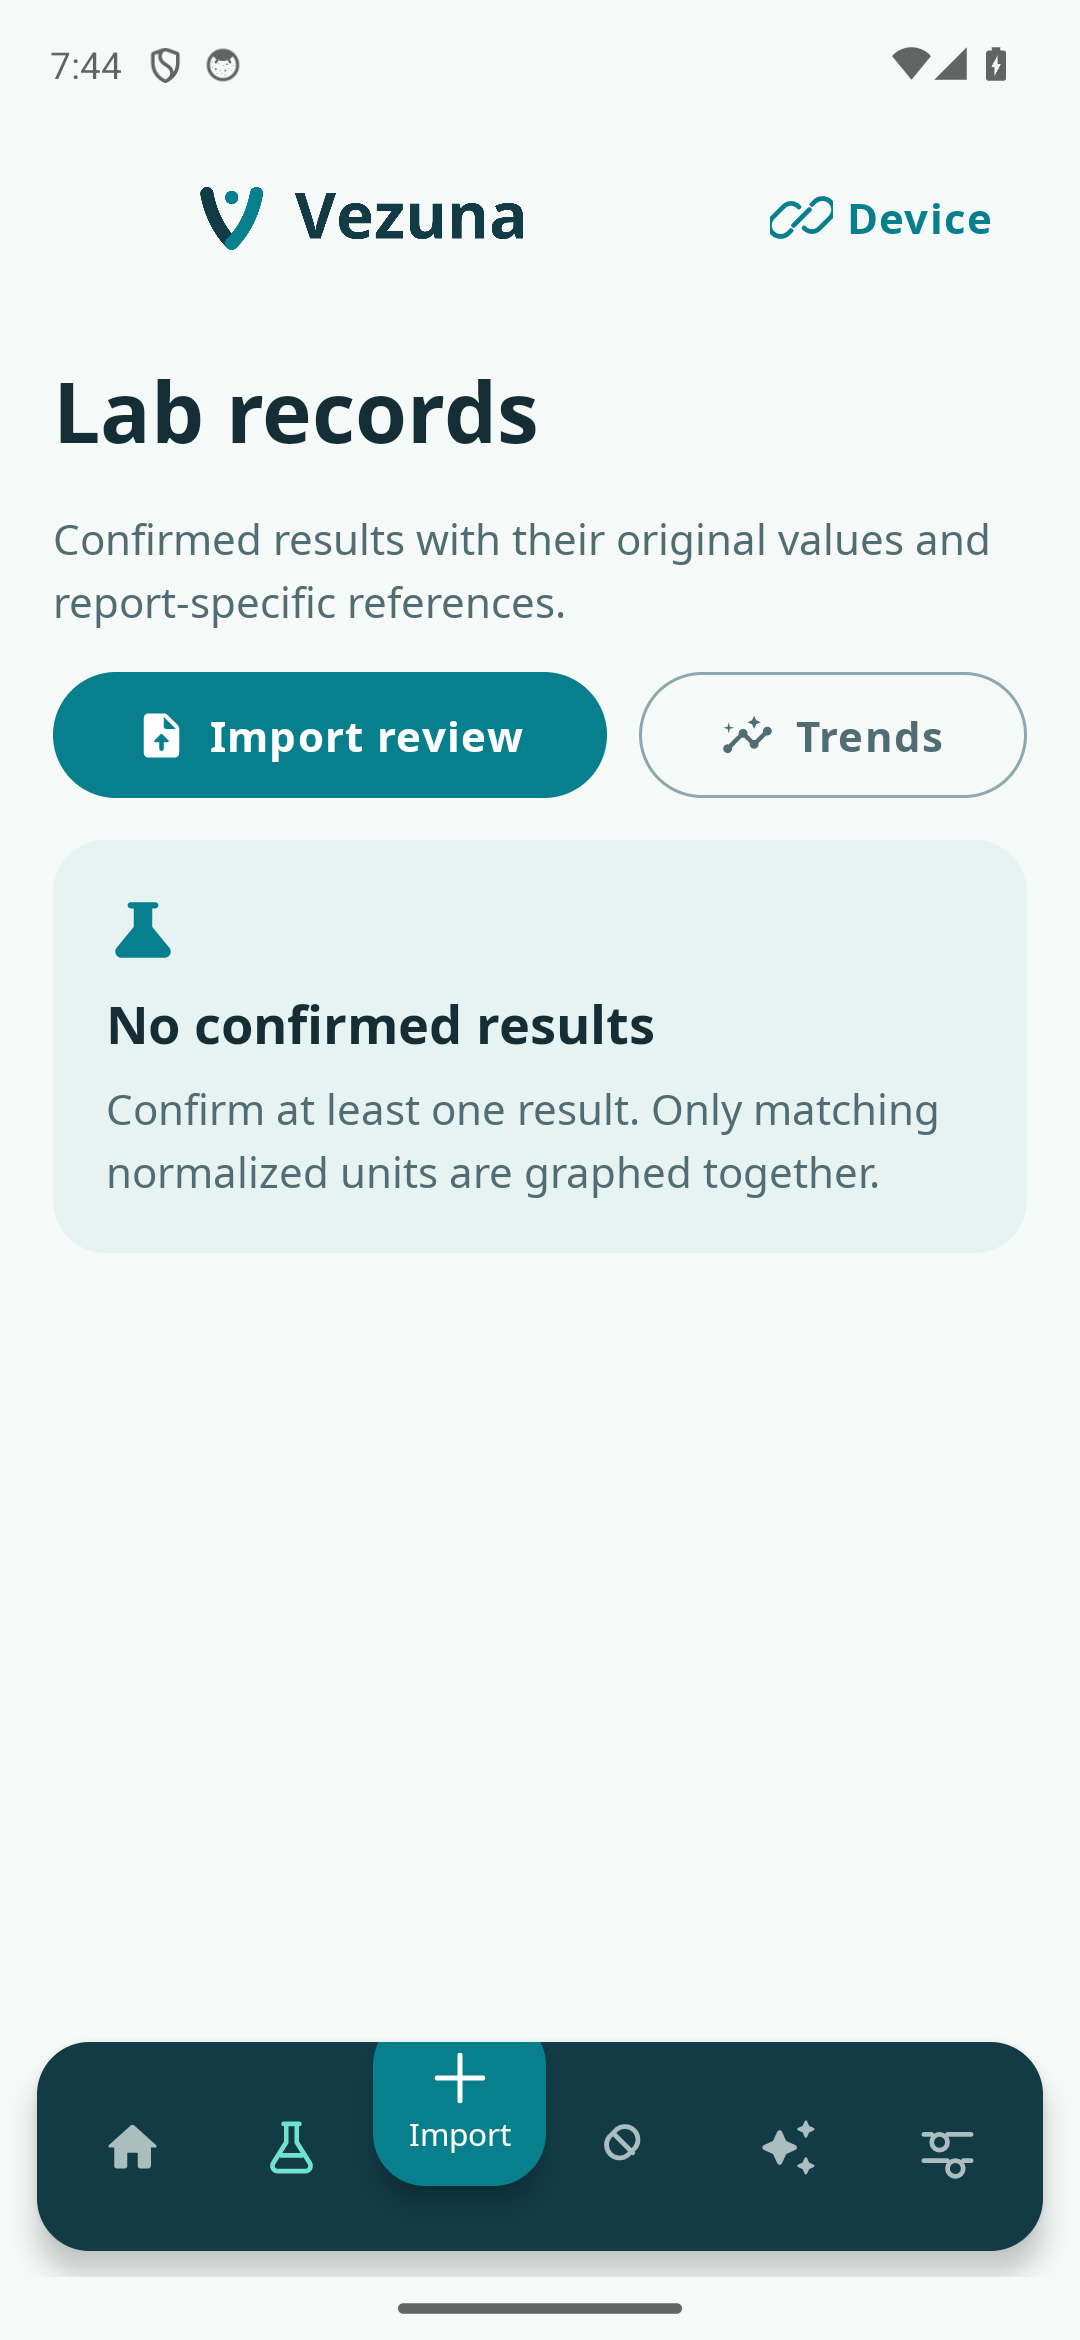
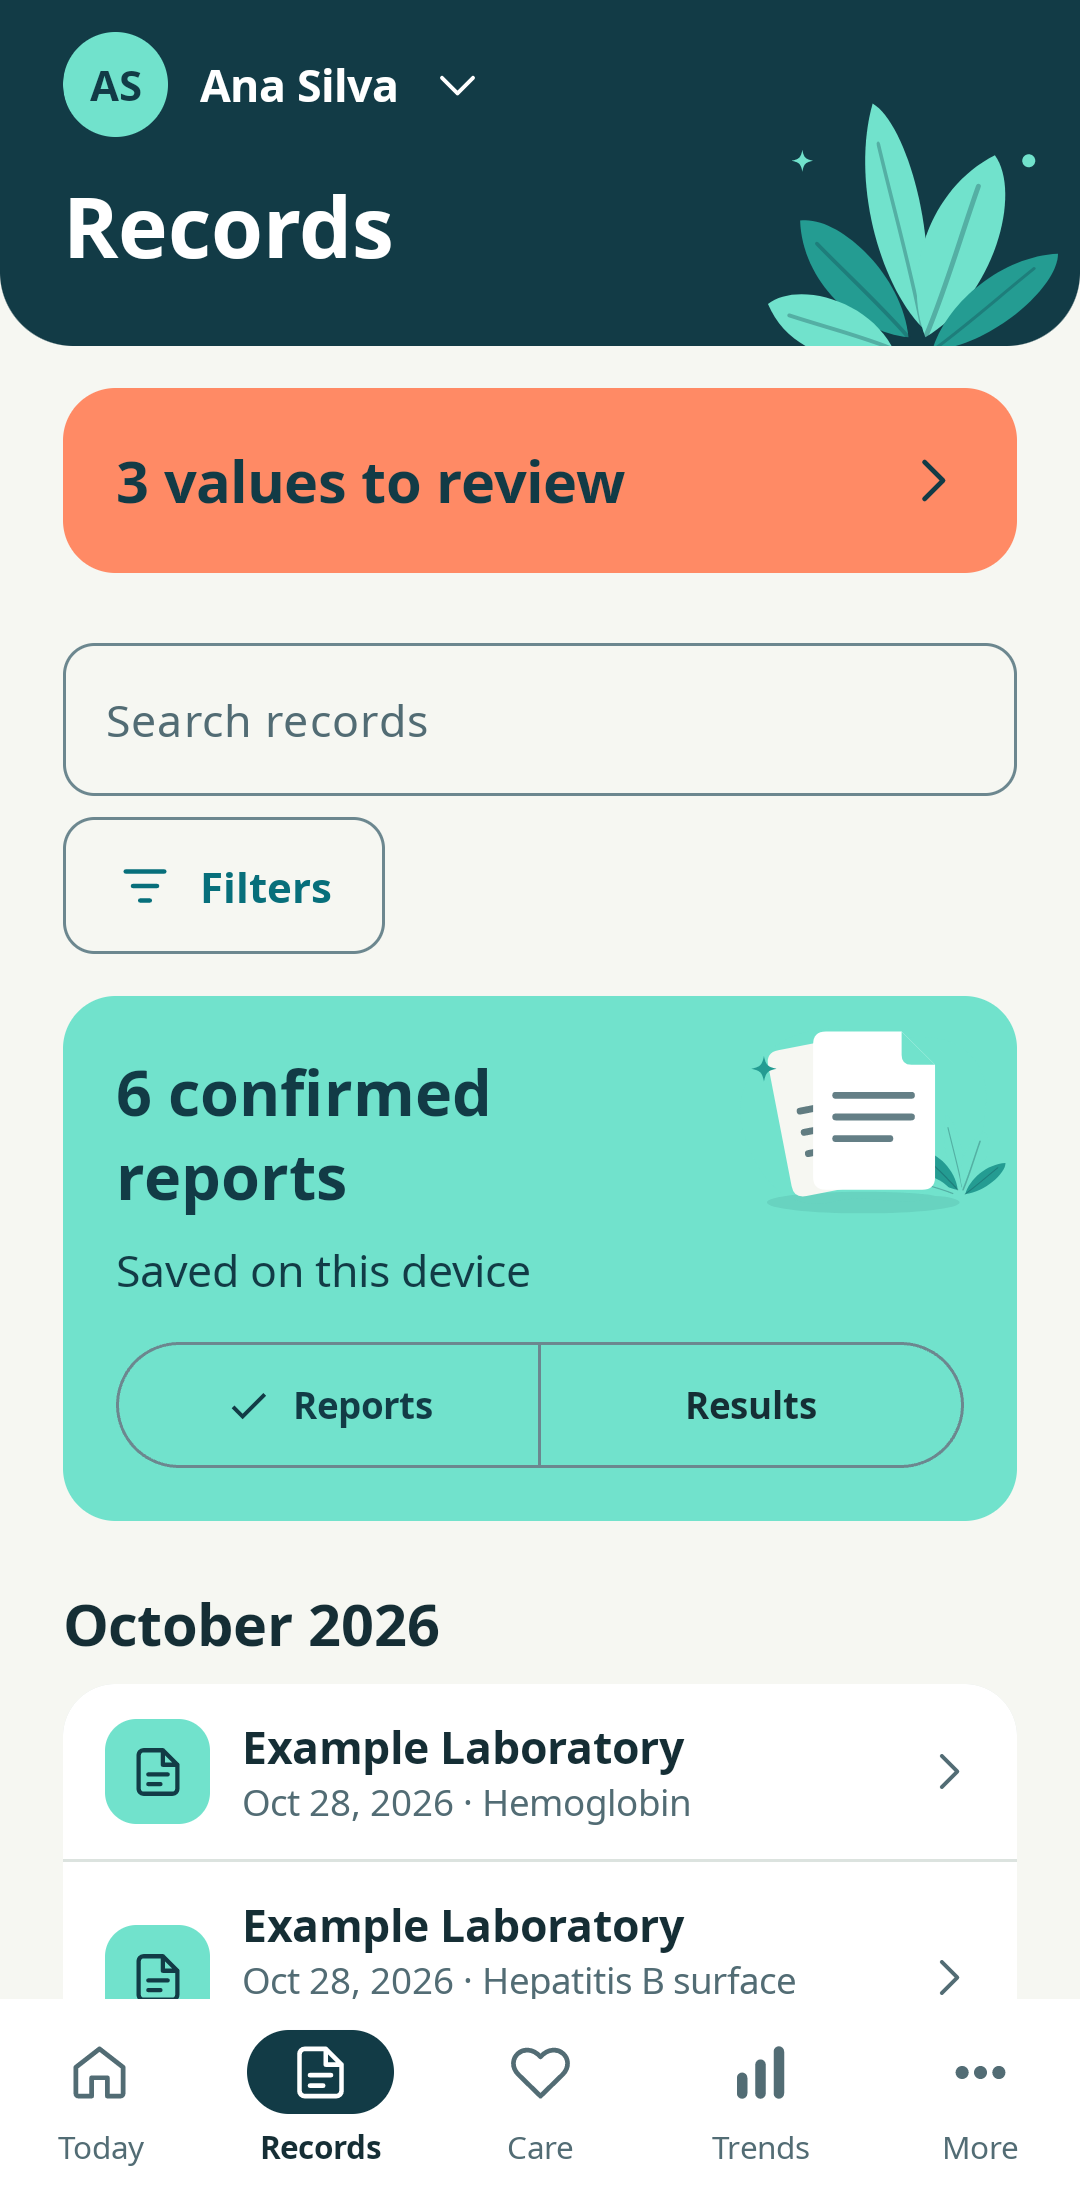
feat(website): screenshots and copy from the redesigned app
Refs #121

diff --git a/website/src/data/marketing.ts b/website/src/data/marketing.ts
@@ -53,7 +53,7 @@ export const marketingCopy: Record<Locale, MarketingCopy> = {
         { term: 'Phones', value: 'Android 8.0+ and iPhone on iOS 18.5+' },
         { term: 'Languages', value: 'English, Português, Español' },
       ],
-      screen: { src: shots.home, alt: 'Vezuna home screen for a profile named Child, showing “Your health, in one place.”, a 100% on-device indicator, and an empty medication list.', caption: 'Home screen. Android development build, fictional profile.' },
+      screen: { src: shots.home, alt: 'Vezuna Today screen for the profile Ana Silva: a next-dose card for Vitamin D with Mark as taken, Skip and Snooze buttons, 30-day adherence, and the next reminders.', caption: 'Today screen. Android development build, fictional profile Ana Silva.' },
     },
     how: {
       title: 'A lab report becomes a record only after you check it.',
@@ -63,7 +63,7 @@ export const marketingCopy: Record<Locale, MarketingCopy> = {
         { title: 'Check the draft against the paper', body: 'Vezuna shows the test, value, unit, reference range, and date it read. Fix anything that does not match the original.' },
         { title: 'Confirm, then compare', body: 'Confirmed results join the person’s history. Results are graphed together only when their units match.' },
       ],
-      screen: { src: shots.labs, alt: 'Vezuna Lab records screen with Import review and Trends buttons and the empty state “No confirmed results”.', caption: 'Lab records before the first confirmed result.' },
+      screen: { src: shots.labs, alt: 'Vezuna Records screen for Ana Silva: a banner with 3 values to review, a search field and filters, 6 confirmed reports saved on this device, and a list of October 2026 reports.', caption: 'Records: values to review, confirmed reports and results.' },
     },
     records: {
       title: 'What Vezuna keeps for each person.',
@@ -73,10 +73,10 @@ export const marketingCopy: Record<Locale, MarketingCopy> = {
         { term: 'Medications', body: 'Schedules and reminders. Mark each dose as taken, skipped, or snoozed.' },
         { term: 'Weight, heart rate, steps', body: 'Type them in, or allow read-only import from Health Connect or Apple Health. Both are optional.' },
         { term: 'Exports', body: 'A PDF or CSV of confirmed results for an appointment, sent through your phone’s share sheet.' },
-        { term: 'Backups', body: 'An encrypted file protected by a passphrase you choose. Restore it on a new phone.' },
+        { term: 'Backups', body: 'An encrypted file protected by a passphrase you choose, for one profile or the whole household, with vitals and original documents (up to 24 MB). Restore it on a new phone.' },
         { term: 'App lock', body: 'Ask for biometrics or the device passcode when Vezuna opens. Screenshots are blocked while it is on.' },
       ],
-      screen: { src: shots.settings, alt: 'Vezuna Settings and export screen stating “No Vezuna app server”, with Prepare CSV and Prepare PDF buttons.', caption: 'Settings and export. Exports never depend on an AI model.' },
+      screen: { src: shots.settings, alt: 'Vezuna More screen with entries for Profiles, Exports, Backups, Privacy and app lock, Device connections, and Assistant and local models, with a bottom bar of Today, Records, Care, Trends and More.', caption: 'More: profiles, exports, backups and privacy controls. Exports never depend on an AI model.' },
     },
     privacy: {
       title: 'Where your records stay, and when they leave.',
@@ -132,7 +132,7 @@ export const marketingCopy: Record<Locale, MarketingCopy> = {
         { term: 'Celulares', value: 'Android 8.0+ e iPhone com iOS 18.5+' },
         { term: 'Idiomas', value: 'English, Português, Español' },
       ],
-      screen: { src: shots.home, alt: 'Tela inicial do Vezuna para o perfil Child, com “Your health, in one place.”, indicador 100% on-device e lista de medicamentos vazia.', caption: 'Tela inicial. Build de desenvolvimento para Android, perfil fictício, interface em inglês.' },
+      screen: { src: shots.home, alt: 'Tela Today do Vezuna para o perfil Ana Silva: cartão Next dose de Vitamin D com os botões “Mark as taken”, Skip e “Snooze 10 min”, adesão em 30 dias e próximos lembretes.', caption: 'Tela Today. Build de desenvolvimento para Android, perfil fictício Ana Silva, interface em inglês.' },
     },
     how: {
       title: 'Um exame só vira registro depois que você confere.',
@@ -142,7 +142,7 @@ export const marketingCopy: Record<Locale, MarketingCopy> = {
         { title: 'Confira o rascunho com o papel', body: 'O Vezuna mostra o exame, o valor, a unidade, o intervalo de referência e a data que leu. Corrija o que estiver diferente do original.' },
         { title: 'Confirme e compare', body: 'Resultados confirmados entram no histórico da pessoa. O gráfico só junta resultados com a mesma unidade.' },
       ],
-      screen: { src: shots.labs, alt: 'Tela Lab records do Vezuna com os botões Import review e Trends e o aviso “No confirmed results”.', caption: 'Exames antes do primeiro resultado confirmado.' },
+      screen: { src: shots.labs, alt: 'Tela Records do Vezuna para Ana Silva: aviso “3 values to review”, busca e filtros, “6 confirmed reports” salvos neste aparelho e lista de relatórios de outubro de 2026.', caption: 'Registros: valores para revisar, relatórios e resultados confirmados.' },
     },
     records: {
       title: 'O que o Vezuna guarda para cada pessoa.',
@@ -152,10 +152,10 @@ export const marketingCopy: Record<Locale, MarketingCopy> = {
         { term: 'Medicamentos', body: 'Horários e lembretes. Marque cada dose como tomada, pulada ou adiada.' },
         { term: 'Peso, frequência cardíaca, passos', body: 'Digite à mão ou permita importar, só leitura, do Health Connect ou do Apple Saúde. As duas opções são opcionais.' },
         { term: 'Exportações', body: 'Um PDF ou CSV dos resultados confirmados para levar à consulta, enviado pelo compartilhamento do celular.' },
-        { term: 'Backups', body: 'Um arquivo criptografado com uma frase-senha que você escolhe. Restaure num celular novo.' },
+        { term: 'Backups', body: 'Um arquivo criptografado com uma frase-senha que você escolhe, de um perfil ou da família toda, com sinais vitais e documentos originais (até 24 MB). Restaure num celular novo com a frase-senha.' },
         { term: 'Bloqueio do app', body: 'Peça biometria ou a senha do aparelho quando o Vezuna abrir. Capturas de tela ficam bloqueadas enquanto estiver ligado.' },
       ],
-      screen: { src: shots.settings, alt: 'Tela Settings and export do Vezuna com o aviso “No Vezuna app server” e os botões Prepare CSV e Prepare PDF.', caption: 'Configurações e exportação. Exportar nunca depende de modelo de IA.' },
+      screen: { src: shots.settings, alt: 'Tela More do Vezuna com entradas Profiles, Exports, Backups, “Privacy and app lock”, “Device connections” e “Assistant and local models”, com barra inferior Today, Records, Care, Trends e More.', caption: 'Mais: perfis, exportações, backups e controles de privacidade. Exportar nunca depende de modelo de IA.' },
     },
     privacy: {
       title: 'Onde seus registros ficam, e quando saem.',
@@ -211,7 +211,7 @@ export const marketingCopy: Record<Locale, MarketingCopy> = {
         { term: 'Teléfonos', value: 'Android 8.0+ y iPhone con iOS 18.5+' },
         { term: 'Idiomas', value: 'English, Português, Español' },
       ],
-      screen: { src: shots.home, alt: 'Pantalla de inicio de Vezuna para el perfil Child, con “Your health, in one place.”, un indicador 100% on-device y la lista de medicamentos vacía.', caption: 'Pantalla de inicio. Build de desarrollo para Android, perfil ficticio, interfaz en inglés.' },
+      screen: { src: shots.home, alt: 'Pantalla Today de Vezuna para el perfil Ana Silva: tarjeta Next dose de Vitamin D con los botones “Mark as taken”, Skip y “Snooze 10 min”, adherencia de 30 días y próximos recordatorios.', caption: 'Pantalla Today. Build de desarrollo para Android, perfil ficticio Ana Silva, interfaz en inglés.' },
     },
     how: {
       title: 'Un análisis se vuelve registro solo cuando tú lo revisas.',
@@ -221,7 +221,7 @@ export const marketingCopy: Record<Locale, MarketingCopy> = {
         { title: 'Compara el borrador con el papel', body: 'Vezuna muestra la prueba, el valor, la unidad, el rango de referencia y la fecha que leyó. Corrige lo que no coincida con el original.' },
         { title: 'Confirma y compara', body: 'Los resultados confirmados entran en el historial de la persona. Solo se grafican juntos los resultados con la misma unidad.' },
       ],
-      screen: { src: shots.labs, alt: 'Pantalla Lab records de Vezuna con los botones Import review y Trends y el aviso “No confirmed results”.', caption: 'Análisis antes del primer resultado confirmado.' },
+      screen: { src: shots.labs, alt: 'Pantalla Records de Vezuna para Ana Silva: aviso “3 values to review”, búsqueda y filtros, “6 confirmed reports” guardados en este dispositivo y lista de informes de octubre de 2026.', caption: 'Registros: valores por revisar, informes y resultados confirmados.' },
     },
     records: {
       title: 'Lo que Vezuna guarda para cada persona.',
@@ -231,10 +231,10 @@ export const marketingCopy: Record<Locale, MarketingCopy> = {
         { term: 'Medicamentos', body: 'Horarios y recordatorios. Marca cada dosis como tomada, omitida o pospuesta.' },
         { term: 'Peso, frecuencia cardíaca, pasos', body: 'Escríbelos a mano o permite importarlos, solo lectura, desde Health Connect o Apple Salud. Ambas opciones son opcionales.' },
         { term: 'Exportaciones', body: 'Un PDF o CSV de los resultados confirmados para la consulta, enviado con el menú de compartir del teléfono.' },
-        { term: 'Copias de seguridad', body: 'Un archivo cifrado con una frase de contraseña que tú eliges. Restáuralo en un teléfono nuevo.' },
+        { term: 'Copias de seguridad', body: 'Un archivo cifrado con una frase de contraseña que tú eliges, de un perfil o de toda la familia, con signos vitales y documentos originales (hasta 24 MB). Restáuralo en un teléfono nuevo con la frase.' },
         { term: 'Bloqueo de la app', body: 'Pide biometría o el código del dispositivo cuando Vezuna se abre. Las capturas de pantalla se bloquean mientras está activo.' },
       ],
-      screen: { src: shots.settings, alt: 'Pantalla Settings and export de Vezuna con el aviso “No Vezuna app server” y los botones Prepare CSV y Prepare PDF.', caption: 'Ajustes y exportación. Exportar nunca depende de un modelo de IA.' },
+      screen: { src: shots.settings, alt: 'Pantalla More de Vezuna con accesos Profiles, Exports, Backups, “Privacy and app lock”, “Device connections” y “Assistant and local models”, con barra inferior Today, Records, Care, Trends y More.', caption: 'Más: perfiles, exportaciones, copias de seguridad y controles de privacidad. Exportar nunca depende de un modelo de IA.' },
     },
     privacy: {
       title: 'Dónde se quedan tus registros, y cuándo salen.',
